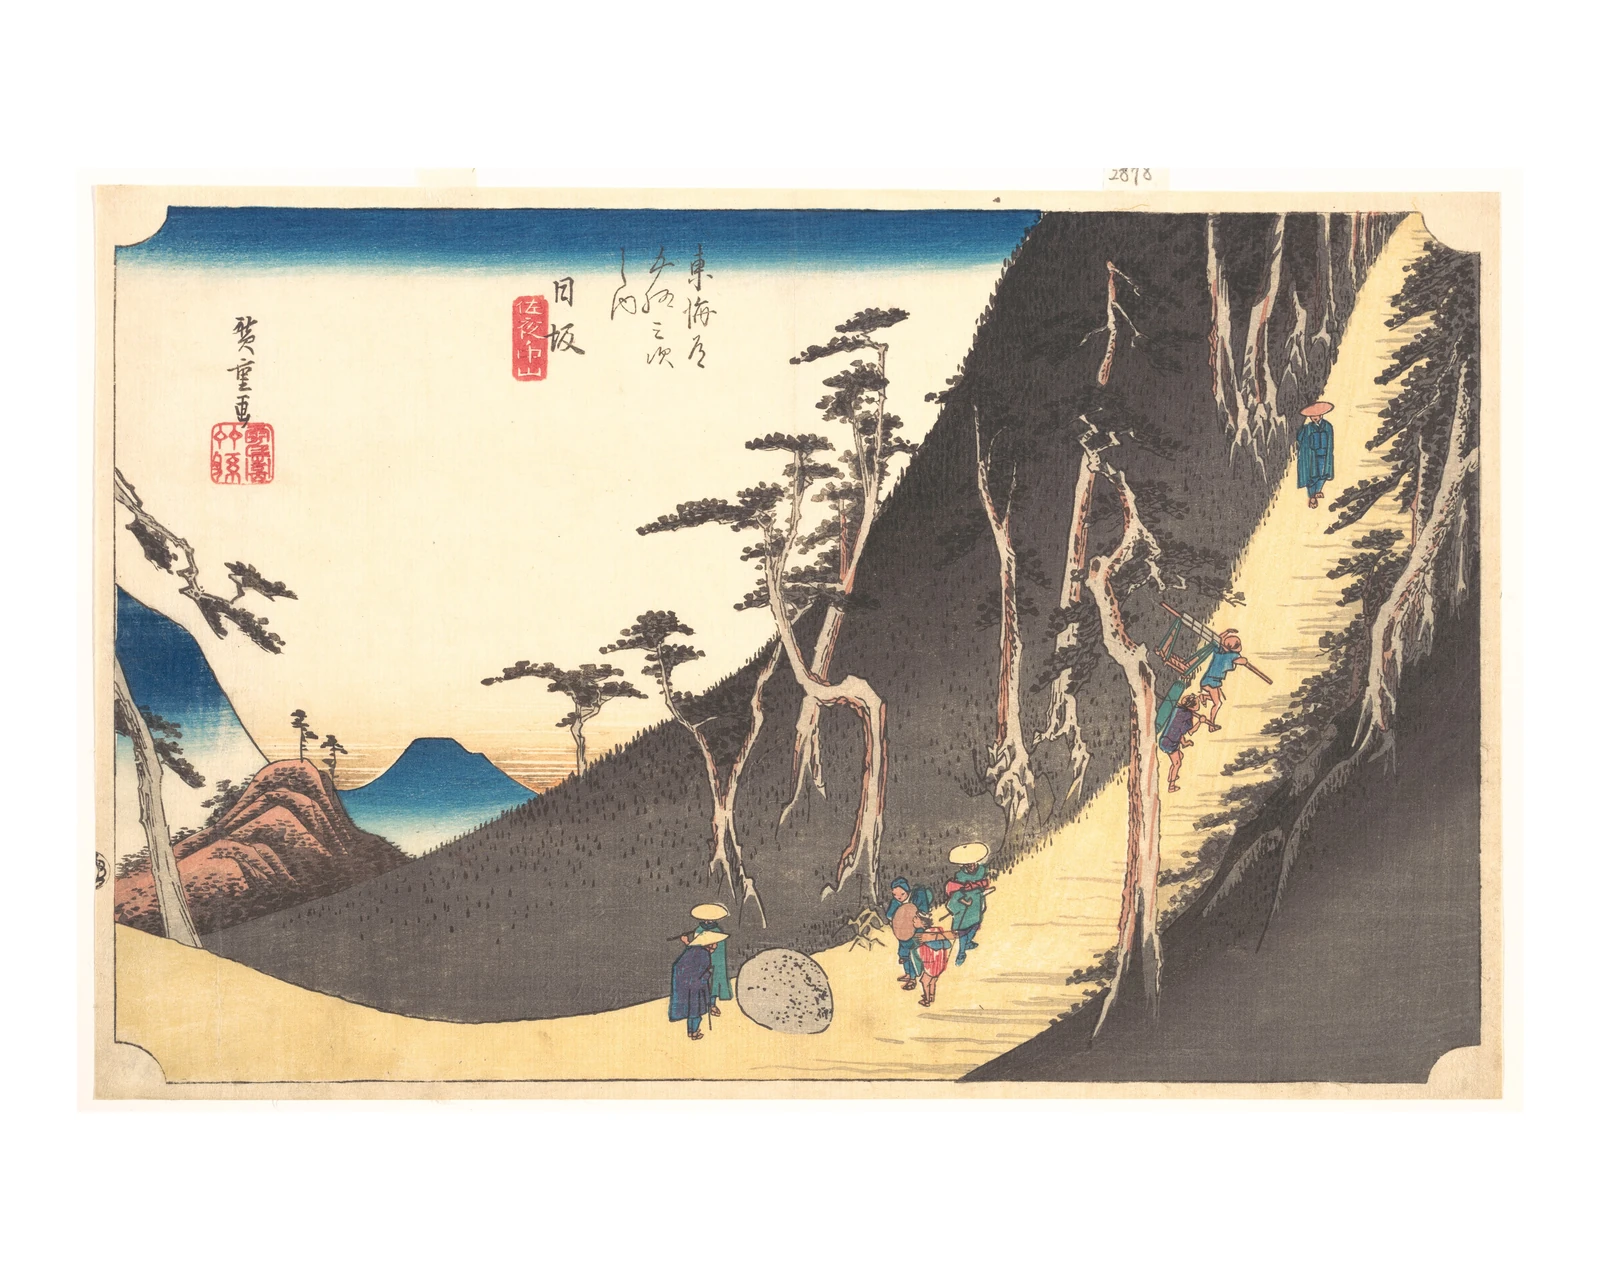
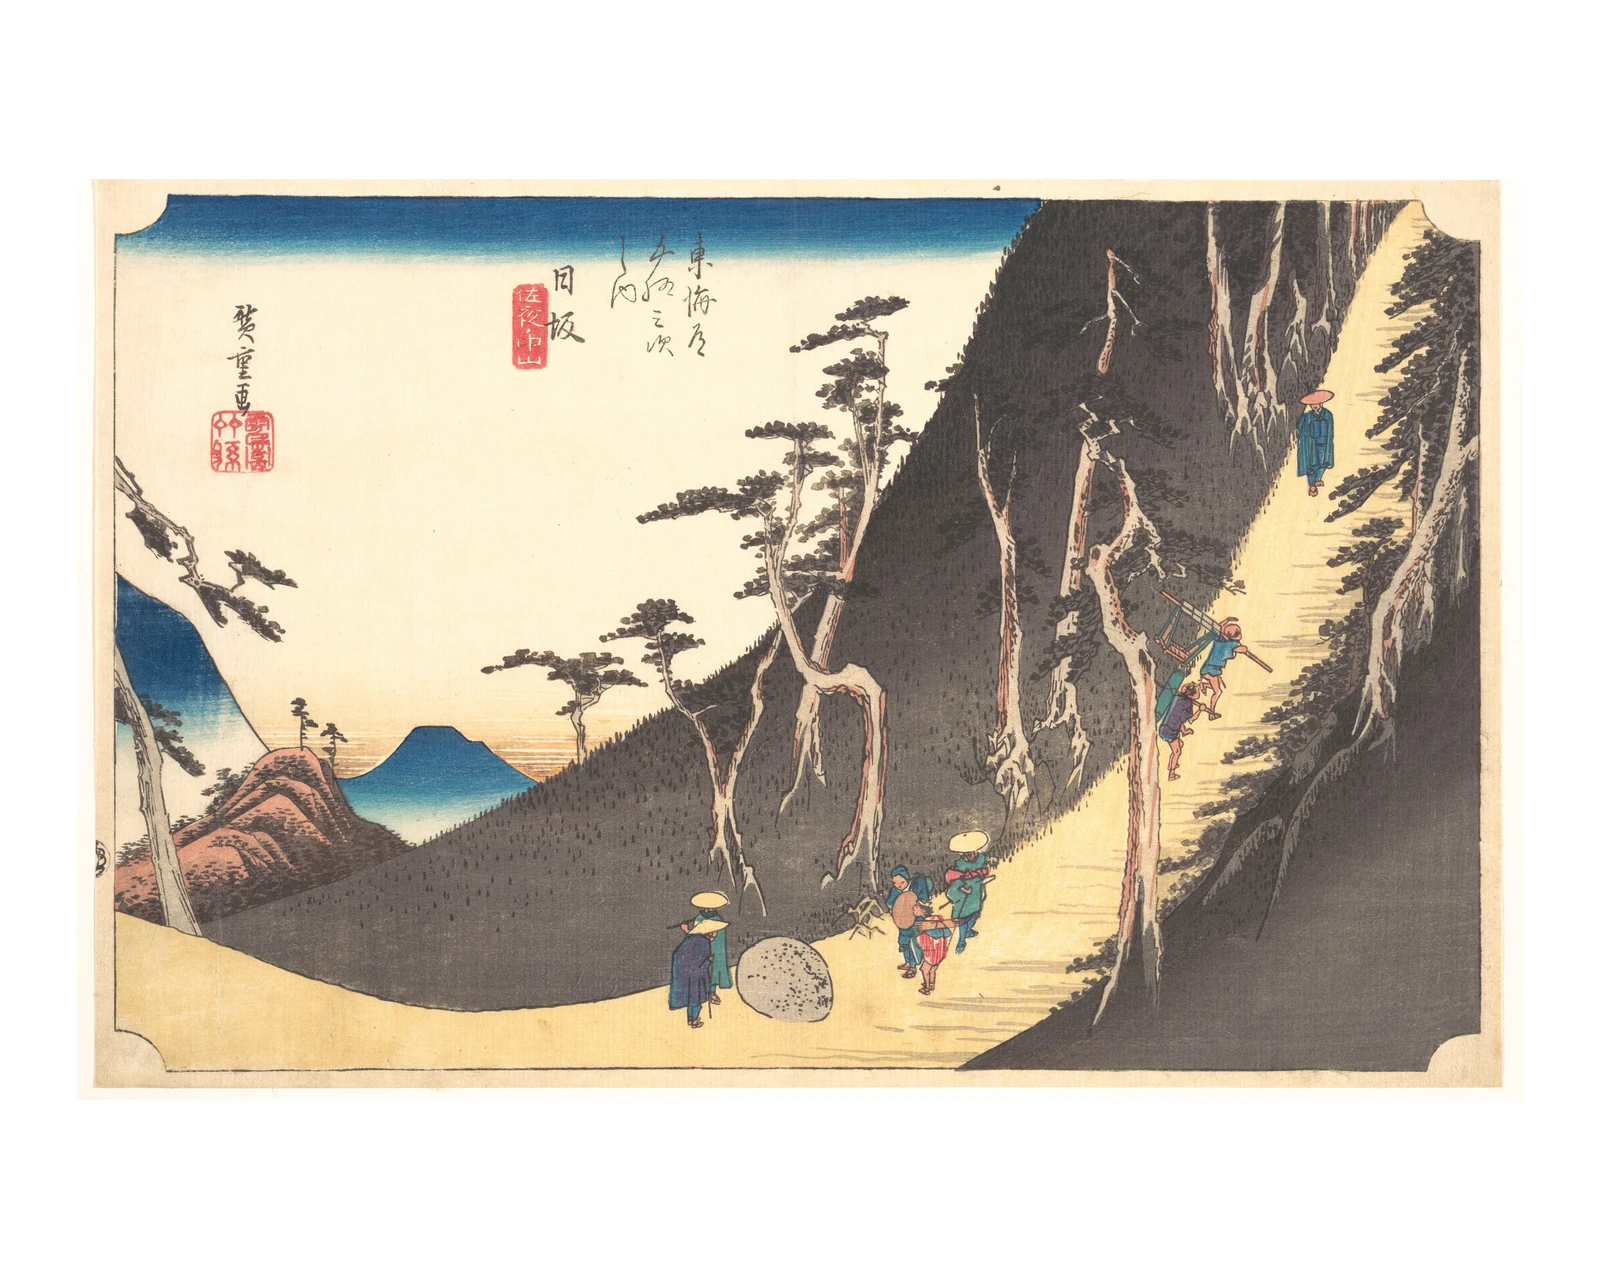
feat(artist-shops): apply the owner's Floating World decisions
- Floating World stays 8×10 at €26.99.
- Minowa (met-36542, 213 ppi) is swapped for Sudden Shower over Shin-Ōhashi
  Bridge and Atake (met-55433, 427 ppi), the crispest of the Met's three
  impressions. Minowa stays registered but unused.
- Museum mount tabs trimmed off 55458, 55993, 37093 and 56689 (top 98, 62,
  81 and 40 px, stopping at the paper edge; seals stay), and re-prepared.
- Hokusai and Hiroshige approved; rights cleared for all ten (owner,
  2026-10-11). Master reviews stay pending.
- Status: room backgrounds delegated to Codex; nothing in Shopify/Prodigi.

Changed region(s): [[0.0625, 0.125, 0.9375, 0.875], [0.125, 0.25, 0.1875, 0.375], [0.0625, 0.7812, 0.0938, 0.8125]]

diff --git a/docs/artist-shops/status.md b/docs/artist-shops/status.md
@@ -1,43 +1,44 @@
 # Artist-shop pilot status
 
-**Updated:** 2026-10-09, end of session  
+**Updated:** 2026-10-11  
 **Branch:** `codex/artist-shops-pilot`  
-**State:** Paused by the owner; no production release  
-**Current writer:** none. The writer slot is free: Codex (Sol) or Claude Code
-may take over on any PC after the checks in "Resume here".
+**State:** Owner decisions applied; room backgrounds in progress; no production release  
+**Current writer:** Claude Code (2026-10-11, owner's Mac). Codex (Sol) has been
+asked to make only the 40 room backgrounds into
+`scripts/assets/print-room-mockups/floating-world/`; Claude Code reviews and
+commits them.
 
-## Where we stopped (2026-10-09)
+## Where we are (2026-10-11)
 
-The last Claude Code session ended at commit `058c996` (the owner's ten
-Floating World prints) plus this status update. Everything is pushed and the
-working tree was clean.
+**Owner decisions (2026-10-11), now in data:**
+1. Collection: **Floating World**, 8×10 only, €26.99. Unchanged.
+2. Minowa (met-36542, 213 ppi) is **swapped** for *Sudden Shower over
+   Shin-Ōhashi Bridge and Atake* (met-55433, 2650×3860, 427 ppi). It was
+   picked from four 8×10-ready Edo views; 55433 is the crispest of the Met's
+   three impressions (the others are 37094 and 37386). Minowa stays
+   registered but unused, like 45434.
+3. Hokusai and Hiroshige are **approved** as written (bios and curator's notes).
+4. Rights are **cleared** for all ten (owner, after the automated screen).
+5. Margins: **trim the museum mount tabs only**. The paper, its borders and
+   the publisher/censor seals stay. New `npm run museum -- trim` records
+   edge insets per artwork. Measured on full-resolution crops, they stop at
+   the paper edge: top 98 px (55458 Hodogaya), 62 px (55993 Nissaka), 81 px
+   (37093 Fireworks) and 40 px (56689 Kinryūsan). On Hodogaya and Fireworks
+   the image runs to the paper edge, so the cut shaves up to ~15 px of sky
+   where the edge slopes. Re-prepared: the tabs are gone, and the other six
+   print files are byte-identical.
 
-**Done:**
-- The artist/artwork registry and Met sourcing.
-- The artist shop routes, all dormant.
-- The museum print pipeline.
-- The owner's ten works: fetched, catalogued in Floating World (unreleased)
-  and prepared at 8×10.
-
-Nothing has been created or changed in Shopify or Prodigi.
-
-**Waiting on the owner (do not decide these for them):**
-1. The collection name ("Floating World" is a working title), 8×10 only, and
-   €26.99.
-2. Minowa, Kanasugi at Mikawashima (met-36542) is 213 ppi at 8×10: accept the
-   exception or swap the work.
-3. Approval of the Hokusai and Hiroshige biographies and curator's notes
-   (`npm run museum -- approve-artist`).
-4. Rights and master reviews for all ten (`npm run museum -- review`),
-   including whether to trim the museum labels on the margins of 55458,
-   55993, 37093 and 56689.
-5. Room backgrounds, then `stage --apply`, Prodigi mapping, `media` and
-   `release`, and any merge or PR to main.
-
-**Next task for an agent, once the owner answers:** apply the decisions in
-data. Then generate the room backgrounds with the owner and run `npm run
-product -- rooms floating-world`. Stop before any Shopify write unless the
-owner explicitly approves `stage --apply`.
+**Still open:**
+- **Master reviews (owner):** pending for all ten. The prepared 8×10 files
+  are 420–435 ppi native; the owner may want a physical proof first.
+- **Room backgrounds:** delegated to Codex at the owner's request. Each
+  print's four `backgroundFile` names are in `data/print-catalog.json`. They
+  are blank 4:5 interiors that the compositor stretches to 1080×1350, with
+  empty wall at the `placement` box (5:4 for the seven landscape prints, 4:5
+  for the three portrait ones). Then `npm run product -- rooms floating-world`.
+- Only with explicit owner approval: `stage --apply` (Shopify Drafts), Prodigi
+  mapping (landscape 3000×2400 files; untagged originals, so check colour),
+  `media`, `release`, then a PR to main.
 
 ## Resume here (any PC)
 
@@ -51,9 +52,10 @@ owner explicitly approves `stage --apply`.
    `prepare`, for each of the ten: `npm run museum -- fetch <object id>
    --artist <artist id>`, with `--short-title "The Great Wave off Kanagawa"`
    for 39799 and `--short-title "Nissaka, Sayo no Nakayama"` for 55993.
+   `prepare` needs `PYTHON=python3` on a Mac without a `python` binary.
    Check the sha256 still matches. A refetch keeps the reviews unless the
    Met changed the record or image.
-4. Run `npm test` (405 pass), `npm run typecheck` and `npm run lint` before
+4. Run `npm test` (406 pass), `npm run typecheck` and `npm run lint` before
    changing anything. Run `npm run museum -- status` and `npm run product --
    status floating-world` to see the state.
 5. Don't run a blanket `git checkout` on `data/*.json` to drop
@@ -62,7 +64,9 @@ owner explicitly approves `stage --apply`.
 
 History: the Codex/Sol session hit its usage limit after the docs commit; none
 of its in-progress build work was saved. Claude Code was the writer from
-2026-10-09 ~16:00 to the end of that day.
+2026-10-09 ~16:00 to the end of that day, and again on 2026-10-11 on the
+owner's Mac (whose originals had to be re-fetched: all ten sha256 matched and
+the Met records were unchanged).
 
 ## Completed
 
@@ -171,18 +175,17 @@ of its in-progress build work was saved. Claude Code was the writer from
   - Hiroshige: Nissaka, Sayo no Nakayama (55993, Fifty-three Stations), and
     from One Hundred Famous Views of Edo, Fireworks at Ryōgoku Bridge (37093),
     Kinryūsan Temple at Asakusa (56689) and Minowa, Kanasugi at Mikawashima
-    (36542).
+    (36542), which on 2026-10-11 was swapped for Sudden Shower over
+    Shin-Ōhashi Bridge and Atake (55433).
   - Seven landscape, three portrait. Nine are 425–435 ppi at 8×10.
-    **Minowa is 213 ppi (original 1274×1928): it needs an owner exception or
-    a swap.**
+    Minowa was 213 ppi (original 1274×1928), hence the swap.
   - The draft previously used Great Wave impression met-45434; the owner
     picked met-39799 (the full sheet with paper edges, warmer), so the print
     now points at 39799. 45434 stays registered and unused. The shortlist
     showed both cards because the Met titles 39799 "…, or The Great Wave";
     `proposeShortTitle` now strips that, so impressions group together.
-  - **Master review:** museum labels and pencil numbers sit on the paper
-    margins of 55458, 55993, 37093 and 56689. A conservative trim to the sheet
-    edge is the owner's call; nothing was removed.
+  - Museum labels and pencil numbers sat on mount tabs above the sheets of
+    55458, 55993, 37093 and 56689; trimmed on 2026-10-11 (see the top).
 
 ## Next steps
 
@@ -196,12 +199,10 @@ of its in-progress build work was saved. Claude Code was the writer from
    Hokusai, 53 Hiroshige; best impression per design). **95 are 8×10-ready at
    300 ppi; none reach 300 ppi at 16×20.** Then `npm run museum -- fetch <id>
    --artist <artist id>` for each pick, and add the prints to Floating World.
-2. **Owner:** confirm the collection name (working title "Floating World"),
-   sizes (8×10 only unless an exception is accepted), the €26.99 price, and
-   Minowa (accept 213 ppi or swap it).
-3. **Owner:** review and approve Hokusai/Hiroshige bios and curator's notes,
-   then record the rights and master reviews.
-4. Room backgrounds: four blank interiors per print (40 in total), named as
+2. ~~**Owner:** name, sizes, price and Minowa~~ (done 2026-10-11).
+3. ~~**Owner:** bios, curator's notes and rights~~ (done 2026-10-11).
+   **Master reviews are still pending.**
+4. Room backgrounds (with Codex, 2026-10-11): four blank interiors per print (40 in total), named as
    in each print's `rooms[].backgroundFile`, under
    `scripts/assets/print-room-mockups/floating-world/`. Placements are 5:4
    for the seven landscape prints and 4:5 for the three portrait ones. Then
@@ -212,8 +213,8 @@ of its in-progress build work was saved. Claude Code was the writer from
 
 ## Not done
 
-- The ten works are selected but not cleared for sale: all artists are
-  unapproved and all rights and master reviews are pending.
+- The ten works are not yet cleared for sale: the master reviews are
+  pending (artists approved and rights cleared on 2026-10-11).
 - Nothing has been created or changed in Shopify or Prodigi.
 - No room backgrounds or room mockups exist for Floating World.
 - Physical print quality, delivered cost and landscape-file handling in

diff --git a/docs/llm-wiki/log.md b/docs/llm-wiki/log.md
@@ -1535,3 +1535,14 @@ catalogued in the unreleased Floating World collection and prepared at 8 × 10
 on `codex/artist-shops-pilot`. Work is paused pending owner decisions (name,
 price, one low-resolution work, artist approvals, rights and master reviews);
 see [status](../artist-shops/status.md) for the stop point and how to resume.
+
+## 2026-10-11 - Floating World owner decisions applied (branch only)
+
+On `codex/artist-shops-pilot`. The owner kept Floating World at 8 × 10 and
+€26.99, swapped the 213 ppi Minowa for Sudden Shower over Shin-Ōhashi Bridge
+(met-55433), had the museum mount tabs trimmed off four sheets (new
+`npm run museum -- trim`), approved the Hokusai and Hiroshige pages and
+cleared rights for all ten. Master reviews and room backgrounds are still
+open; nothing touched Shopify or Prodigi. See
+[status](../artist-shops/status.md).
+
